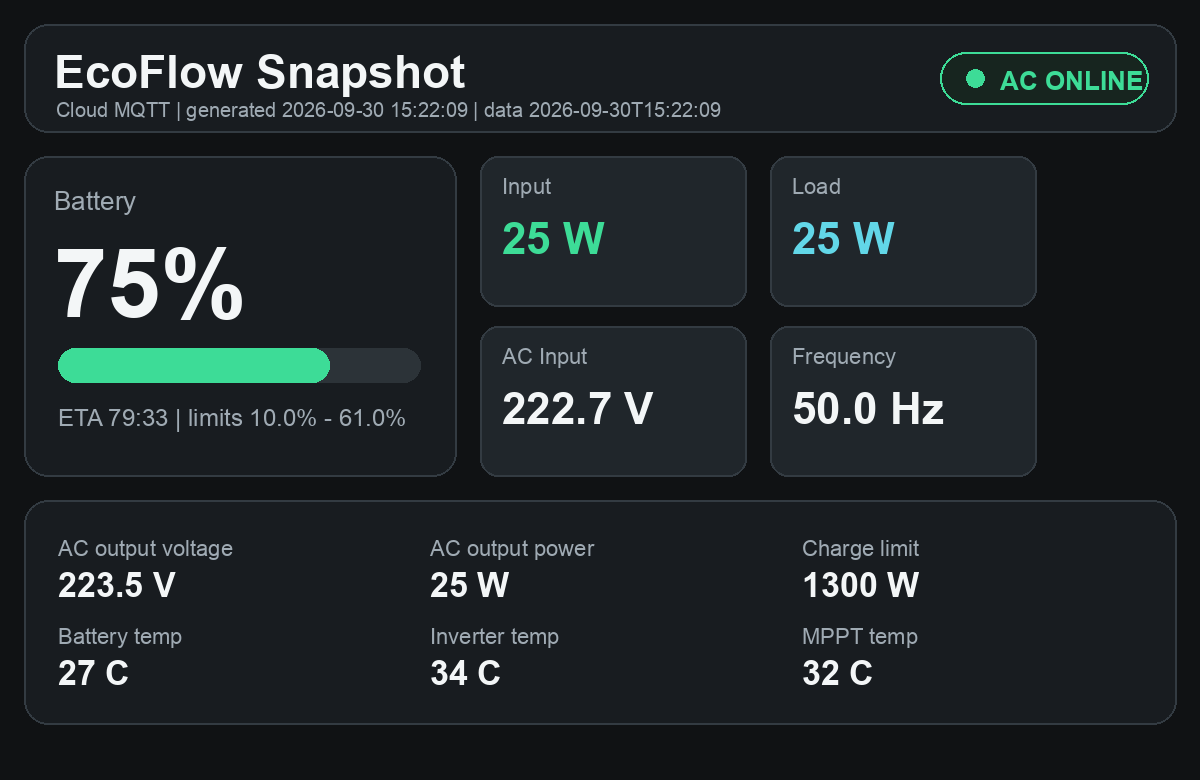
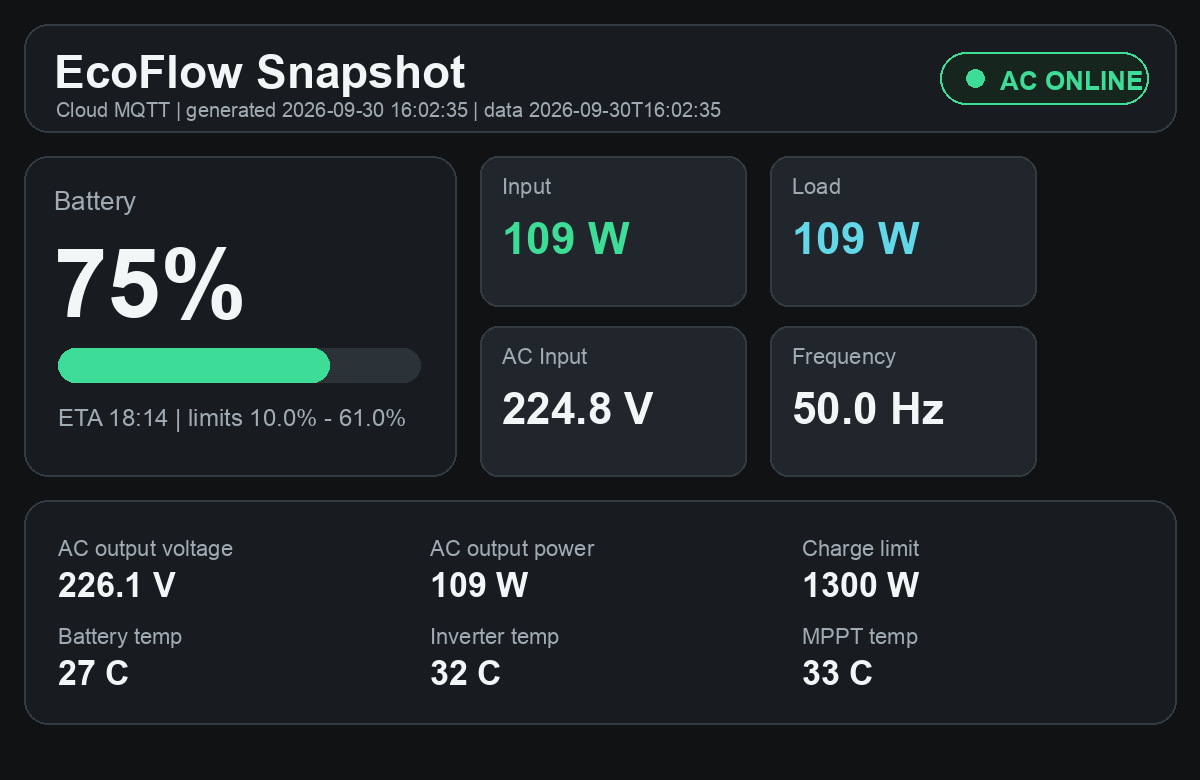
Update EcoFlow dashboard 2026-09-30 16:02:35

diff --git a/index.html b/index.html
@@ -177,7 +177,7 @@
   <header>
     <div>
       <h1>EcoFlow Snapshot</h1>
-      <div class="sub">Cloud MQTT · generated 2026-09-30T15:22:09 · data 2026-09-30T15:22:09</div>
+      <div class="sub">Cloud MQTT · generated 2026-09-30T16:02:35 · data 2026-09-30T16:02:35</div>
     </div>
     <div class="status online"><span class="dot"></span><span>AC online</span></div>
   </header>
@@ -189,22 +189,22 @@
       <h2>Battery</h2>
       <div class="value">75%</div>
       <div class="battery"><div class="fill"></div></div>
-      <div class="row"><span>ETA</span><span>79:33</span></div>
+      <div class="row"><span>ETA</span><span>18:14</span></div>
       <div class="row"><span>SOC limits</span><span>10.0% - 61.0%</span></div>
     </section>
     <section>
       <h2>AC</h2>
-      <div class="row"><span>Input voltage</span><span>222.7 V</span></div>
+      <div class="row"><span>Input voltage</span><span>224.8 V</span></div>
       <div class="row"><span>Input frequency</span><span>50.0 Hz</span></div>
-      <div class="row"><span>Output voltage</span><span>223.5 V</span></div>
+      <div class="row"><span>Output voltage</span><span>226.1 V</span></div>
     </section>
   </div>
 
   <div class="cards">
-    <div class="card"><span class="label">Input</span><span class="value">25 W</span></div>
-    <div class="card"><span class="label">Load</span><span class="value">25 W</span></div>
+    <div class="card"><span class="label">Input</span><span class="value">109 W</span></div>
+    <div class="card"><span class="label">Load</span><span class="value">109 W</span></div>
     <div class="card"><span class="label">Battery temp</span><span class="value">27°C</span></div>
-    <div class="card"><span class="label">Inverter temp</span><span class="value">34°C</span></div>
+    <div class="card"><span class="label">Inverter temp</span><span class="value">32°C</span></div>
   </div>
 
   
@@ -217,8 +217,8 @@
         <div class="daily-item"><span class="label">Зарядний ліміт</span><strong>1300 W</strong><small>пік входу 1358 W · 104% ліміту</small></div>
         <div class="daily-item"><span class="label">Заряджання</span><strong>17 хв</strong><small>останнє 30.09 14:47</small></div>
         <div class="daily-item"><span class="label">Розряджання</span><strong>0 сек</strong><small>--</small></div>
-        <div class="daily-item"><span class="label">Енергія вхід / вихід</span><strong>951 Wh / 578 Wh</strong><small>оцінка за sample-ами</small></div>
-        <div class="daily-item"><span class="label">Частота min / max</span><strong>50.0 Hz / 50.0 Hz</strong><small>29.09 16:01 / 29.09 16:01</small></div>
+        <div class="daily-item"><span class="label">Енергія вхід / вихід</span><strong>949 Wh / 577 Wh</strong><small>оцінка за sample-ами</small></div>
+        <div class="daily-item"><span class="label">Частота min / max</span><strong>50.0 Hz / 50.0 Hz</strong><small>29.09 17:49 / 29.09 17:49</small></div>
       </div>
     </section>
     
@@ -241,29 +241,29 @@
   &quot;ok&quot;: true,
   &quot;source&quot;: &quot;Cloud MQTT&quot;,
   &quot;device&quot;: &quot;DELTA Pro&quot;,
-  &quot;timestamp&quot;: &quot;2026-09-30T15:22:09&quot;,
+  &quot;timestamp&quot;: &quot;2026-09-30T16:02:35&quot;,
   &quot;grid&quot;: true,
   &quot;battery&quot;: {
     &quot;soc&quot;: 75,
     &quot;min&quot;: 10.0,
     &quot;max&quot;: 61.0,
-    &quot;eta&quot;: &quot;79:33&quot;
+    &quot;eta&quot;: &quot;18:14&quot;
   },
   &quot;power&quot;: {
-    &quot;in&quot;: 25,
-    &quot;out&quot;: 25,
-    &quot;acOut&quot;: 25,
+    &quot;in&quot;: 109,
+    &quot;out&quot;: 109,
+    &quot;acOut&quot;: 109,
     &quot;chargeLimit&quot;: 1300
   },
   &quot;ac&quot;: {
-    &quot;inputVoltage&quot;: 222.705,
+    &quot;inputVoltage&quot;: 224.841,
     &quot;inputFreq&quot;: 50.0,
-    &quot;outputVoltage&quot;: 223.53
+    &quot;outputVoltage&quot;: 226.132
   },
   &quot;temps&quot;: {
     &quot;battery&quot;: 27,
-    &quot;inverter&quot;: 34,
-    &quot;mppt&quot;: 32
+    &quot;inverter&quot;: 32,
+    &quot;mppt&quot;: 33
   },
   &quot;history&quot;: [
     {
@@ -308,15 +308,15 @@
   &quot;telemetry&quot;: {
     &quot;window&quot;: &quot;24h&quot;,
     &quot;sample_count&quot;: 246,
-    &quot;from&quot;: &quot;2026-09-29T16:01:15&quot;,
-    &quot;to&quot;: &quot;2026-09-30T15:22:09&quot;,
+    &quot;from&quot;: &quot;2026-09-29T17:49:28&quot;,
+    &quot;to&quot;: &quot;2026-09-30T16:02:35&quot;,
     &quot;latest&quot;: {
       &quot;mode&quot;: &quot;idle&quot;,
       &quot;grid&quot;: true,
       &quot;soc&quot;: 75.0,
-      &quot;ac_v&quot;: 222.705,
-      &quot;in_w&quot;: 25.0,
-      &quot;out_w&quot;: 25.0,
+      &quot;ac_v&quot;: 224.841,
+      &quot;in_w&quot;: 109.0,
+      &quot;out_w&quot;: 109.0,
       &quot;charge_limit_w&quot;: 1300.0
     },
     &quot;voltage&quot;: {
@@ -330,11 +330,11 @@
       },
       &quot;frequency_min&quot;: {
         &quot;value&quot;: 50.0,
-        &quot;ts&quot;: &quot;2026-09-29T16:01:15&quot;
+        &quot;ts&quot;: &quot;2026-09-29T17:49:28&quot;
       },
       &quot;frequency_max&quot;: {
         &quot;value&quot;: 50.0,
-        &quot;ts&quot;: &quot;2026-09-29T16:01:15&quot;
+        &quot;ts&quot;: &quot;2026-09-29T17:49:28&quot;
       }
     },
     &quot;soc&quot;: {
@@ -362,8 +362,8 @@
       },
       &quot;charge_limit_w&quot;: 1300.0,
       &quot;max_input_pct_of_current_limit&quot;: 104,
-      &quot;input_wh_est&quot;: 950.6,
-      &quot;load_wh_est&quot;: 578.4
+      &quot;input_wh_est&quot;: 948.8,
+      &quot;load_wh_est&quot;: 576.6
     },
     &quot;modes&quot;: {
       &quot;charging_sec&quot;: 1031,
